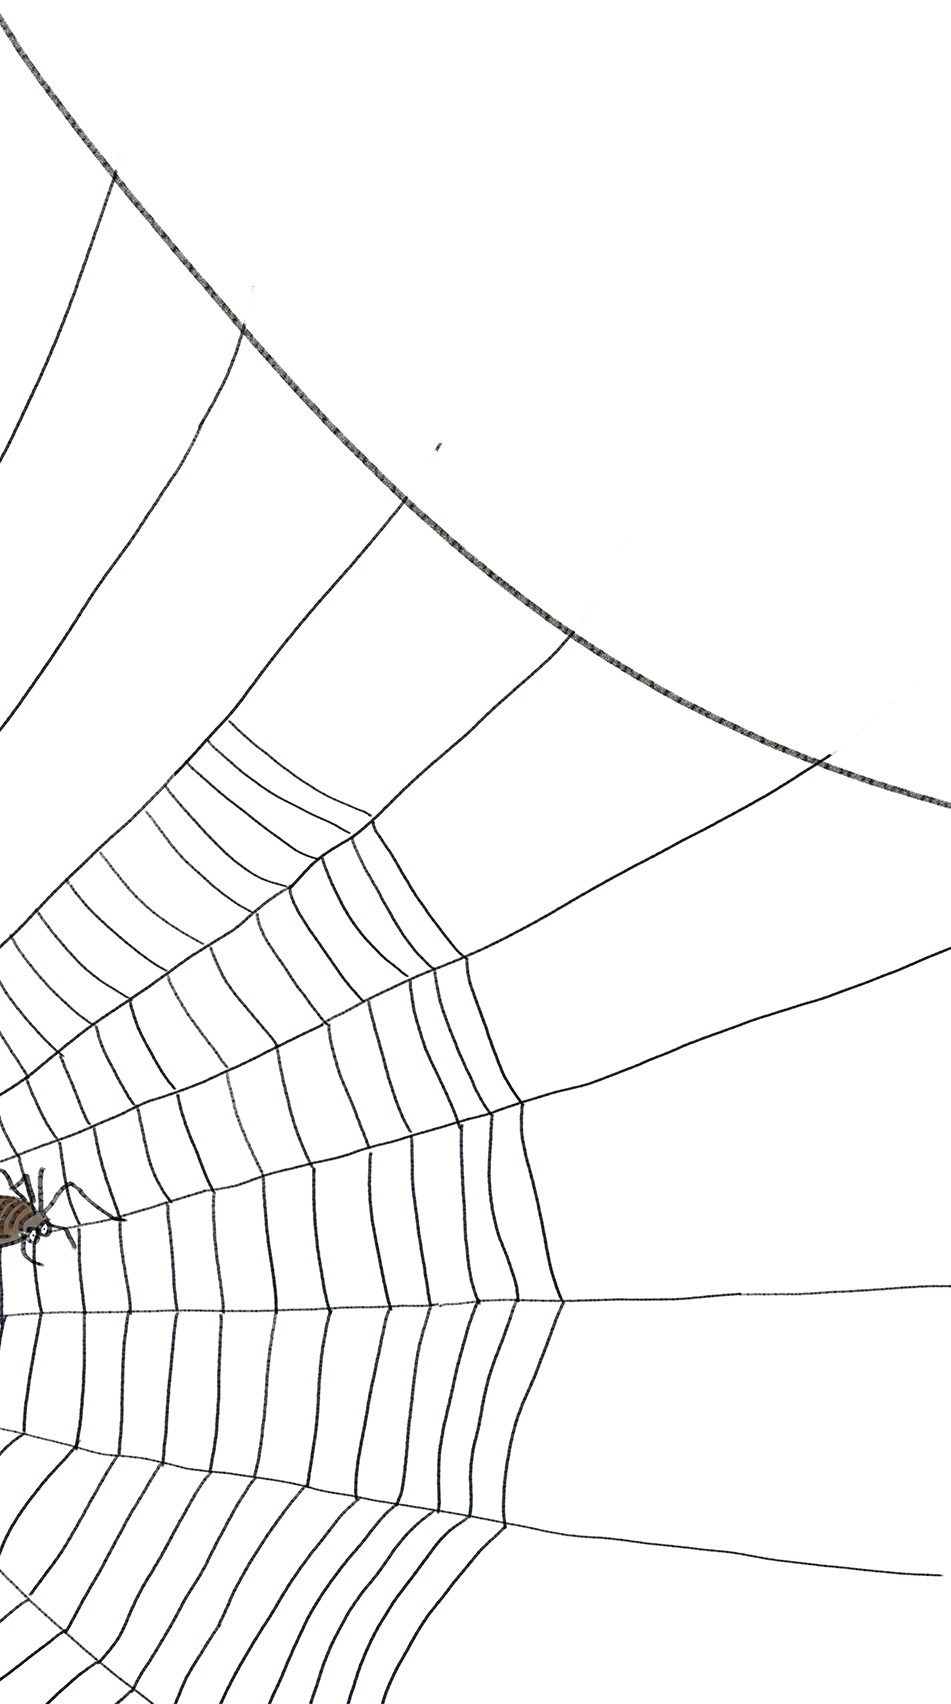
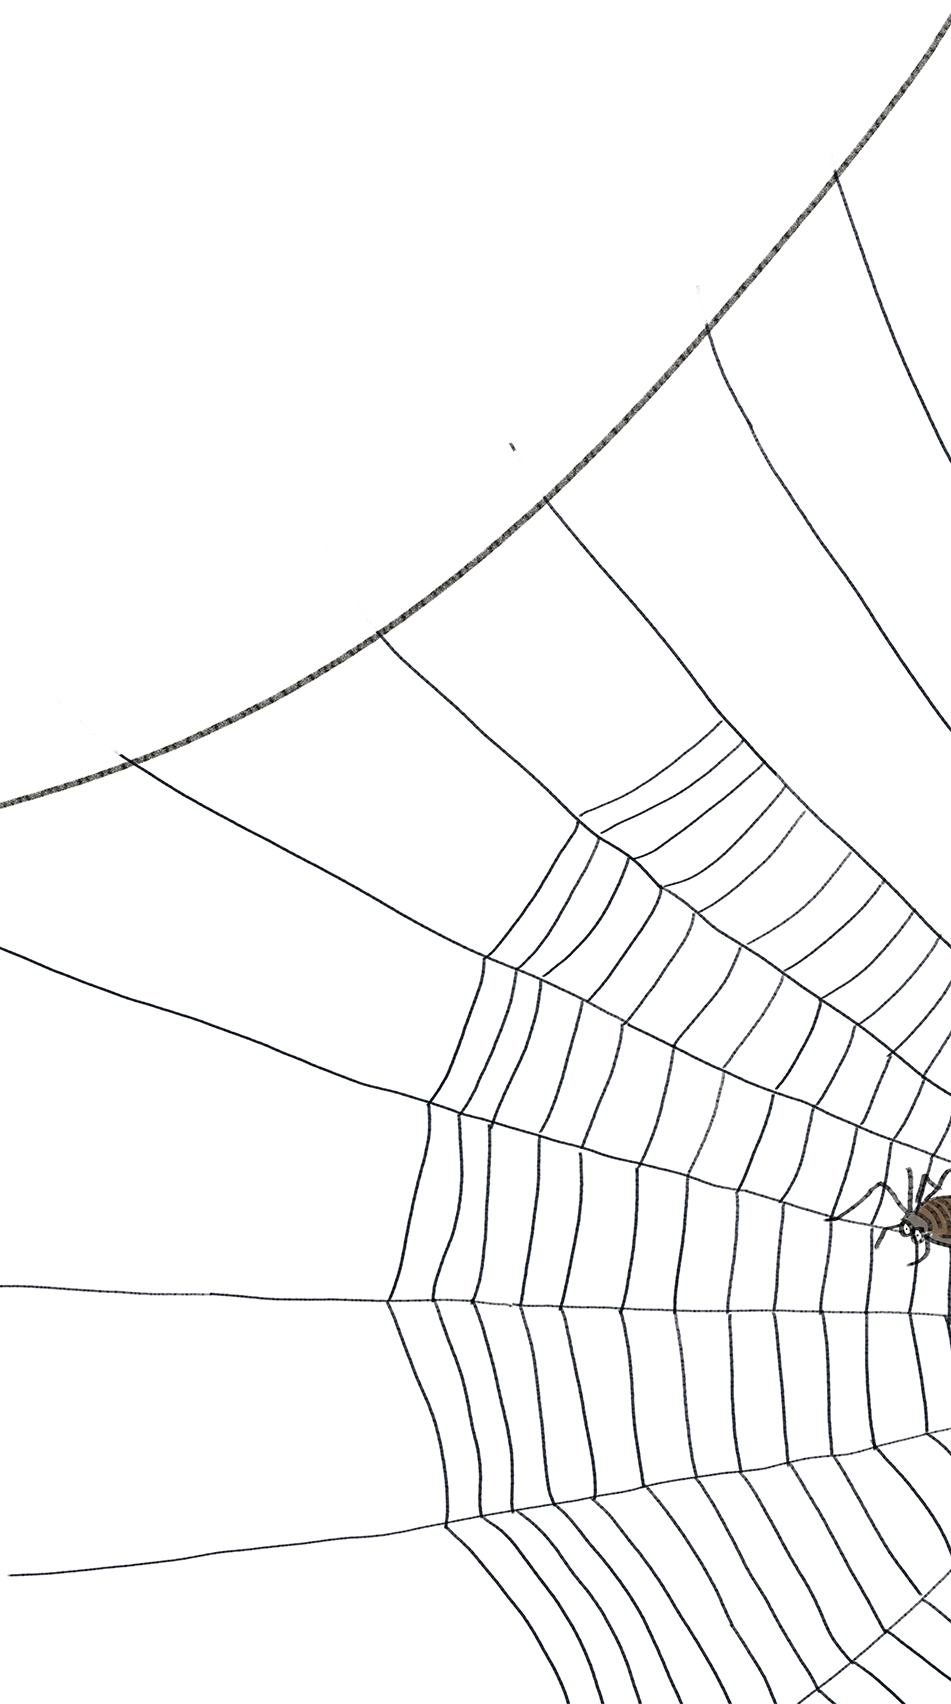
show page styled

diff --git a/src/components/Show.js b/src/components/Show.js
@@ -7,33 +7,37 @@ const Show = (props) => {
 
   return (
     <div>
-      <div className="index-container">
+      <div className="show-container">
+        <h2>{item.name}</h2>
         <div className="show-flex">
-          <img src={item.img} />
-          <h2>{item.name}</h2>
-          <ul>
-            {item.ingredients.map((ingredient) => (
-              <li>{ingredient}</li>
-            ))}
-          </ul>
-
-          <button
-            onClick={() => {
-              props.selectItem(item, type);
-              props.history.push(`/edit/${type}s`);
-            }}
-          >
-            Edit
-          </button>
-          <button
-            onClick={() => {
-              props.deleteItem(item, type);
-              props.history.push(`/${type}s`);
-            }}
-          >
-            Delete
-          </button>
-          <p></p>
+          <div className="show-row">
+            <img src={item.img} className="pic"/>
+            <div className="show-col">
+              <h3>Ingredients</h3>
+              <ul>
+                {item.ingredients.map((ingredient) => (
+                  <li>{ingredient}</li>
+                ))}
+              </ul>
+            </div>
+          </div>
+          <div className="show-row">
+            <p className="show-p">{item.directions}</p>
+          </div>
+          <div className="show-row edit-delete-buttons">
+            <button className="edit-delete"
+              onClick={() => {
+                props.selectItem(item, type);
+                props.history.push(`/edit/${type}s`);
+              }}>Edit
+            </button>
+            <button className="edit-delete"
+              onClick={() => {
+                props.deleteItem(item, type);
+                props.history.push(`/${type}s`);
+              }}>Delete
+            </button>
+          </div>
         </div>
       </div>
     </div>

diff --git a/src/index.css b/src/index.css
@@ -25,7 +25,7 @@ h1 {
 /*** HOME ***/
 .home {
   text-align: center;
-  background-image: url("../src/images/Halloween-background-teal.jpg");
+  background-image: url("/src/images/Halloween-background-teal.jpg");
   background-repeat: no-repeat;
   background-size: cover;
   background-position: center center;
@@ -147,11 +147,10 @@ p {
 }
 
 footer {
-  /* background-color: rgb(20, 110, 116); */
   text-align: right;
 }
 
-footer button, .submit-button {
+footer button, .submit-button, .edit-delete {
   background-color: rgb(245, 250, 243);
   border-radius: 50px;
   padding: .5em;
@@ -162,9 +161,10 @@ footer button, .submit-button {
   transition: 0.2s all;
   text-align: center;
   font-size: .5em;
+  cursor: pointer;
 }
 
-/*** NEW FORM ***/
+/*** NEW/EDIT FORM ***/
 .form-container {
   padding: 1.5em;
   background-color: rgb(20, 110, 116);
@@ -217,4 +217,64 @@ label {
 
 .back {
   margin-top: 1em;
+}
+
+/*** SHOW ***/
+.show-container {
+  padding: 1em;
+  background-color: rgb(158, 20, 31);
+  height: 700px;
+  background-image: url("/src/images/spider-web-opposite.png");
+  background-repeat: no-repeat;
+  background-size: cover;
+  background-position: center right;
+}
+
+.show-flex {
+  background-color: rgb(204, 80, 90, .65);
+  box-shadow: 4px 4px 10px black;
+  padding: .25em;
+}
+
+.show-row {
+  display: flex;
+  margin-bottom: .5em;
+}
+
+.show-col {
+  padding-left: .5em;
+  flex-grow: 3;
+}
+
+.pic {
+  height: 7em;
+  margin: 0;
+}
+
+h3 {
+  font-family: sans-serif;
+  font-size: .75em;
+  border-bottom: 1px solid #000;
+}
+
+ul {
+  border-bottom: 1px solid #000;
+}
+
+li {
+  list-style: none;
+  font-size: .6em;
+}
+
+.show-p {
+  font-size: .5em;
+}
+
+.edit-delete {
+  width: 5em;
+  margin-top: 1em;
+}
+
+.edit-delete-buttons {
+  flex-direction: row-reverse;
 }
